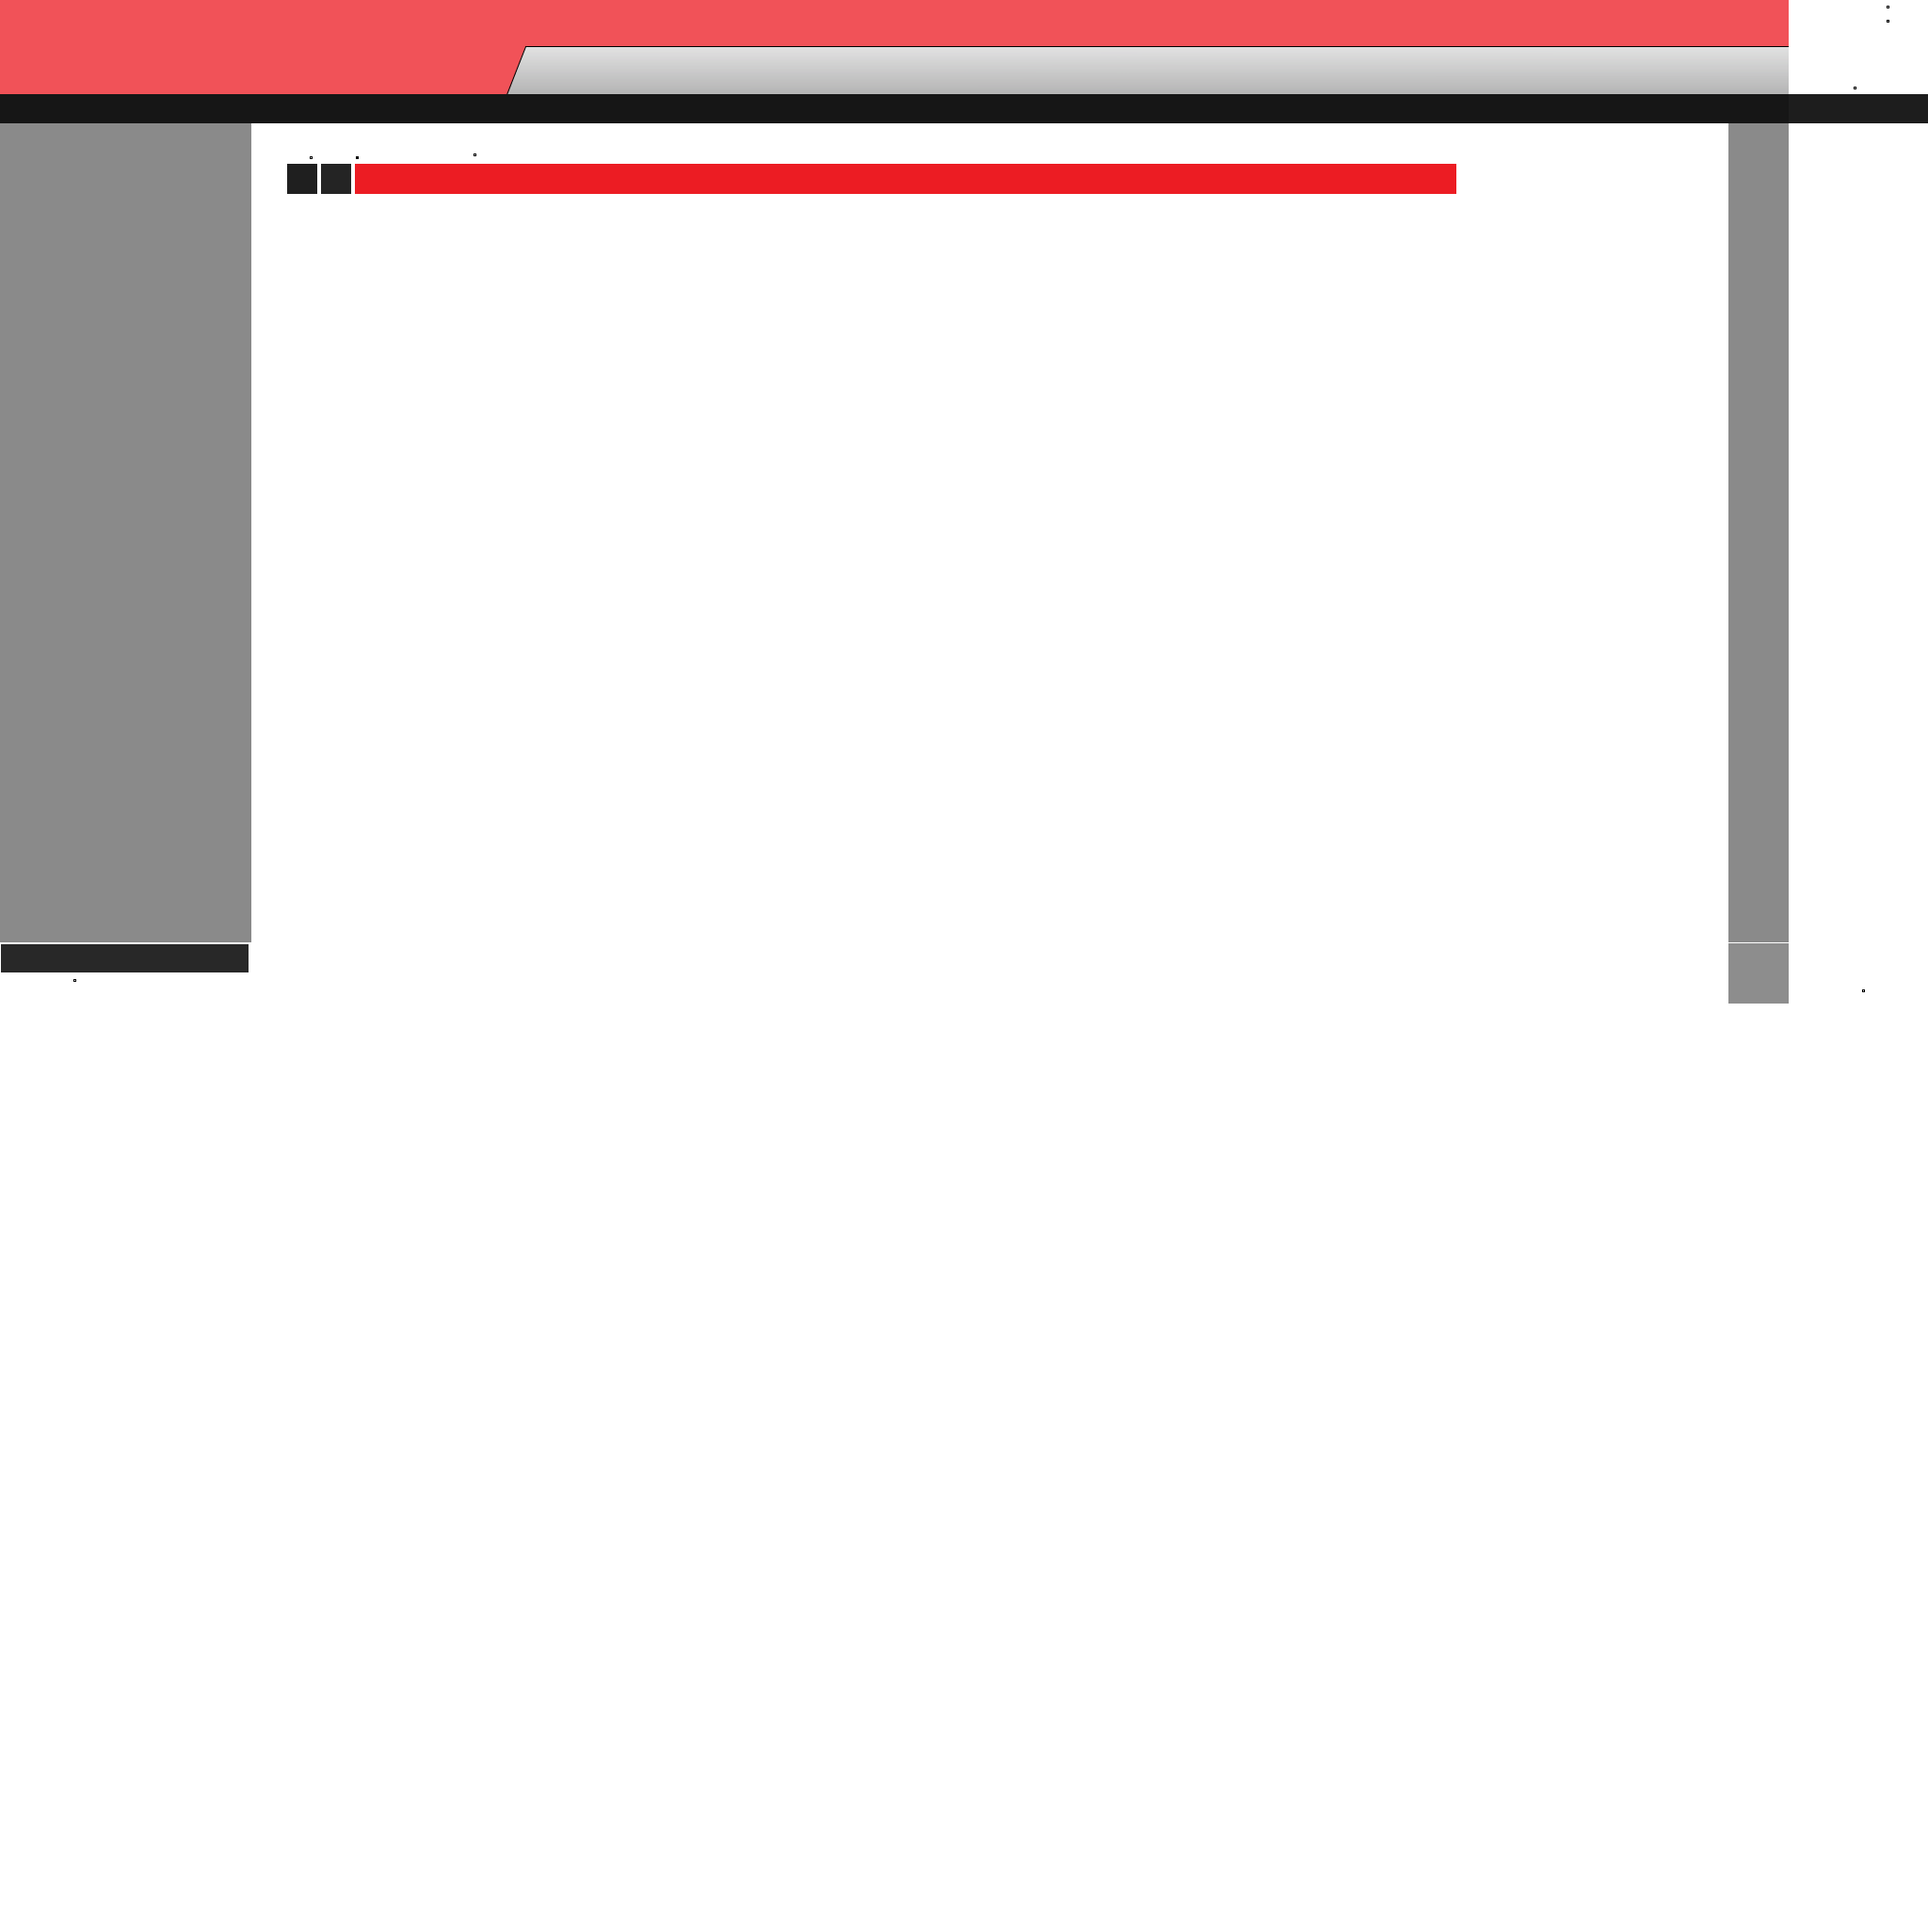
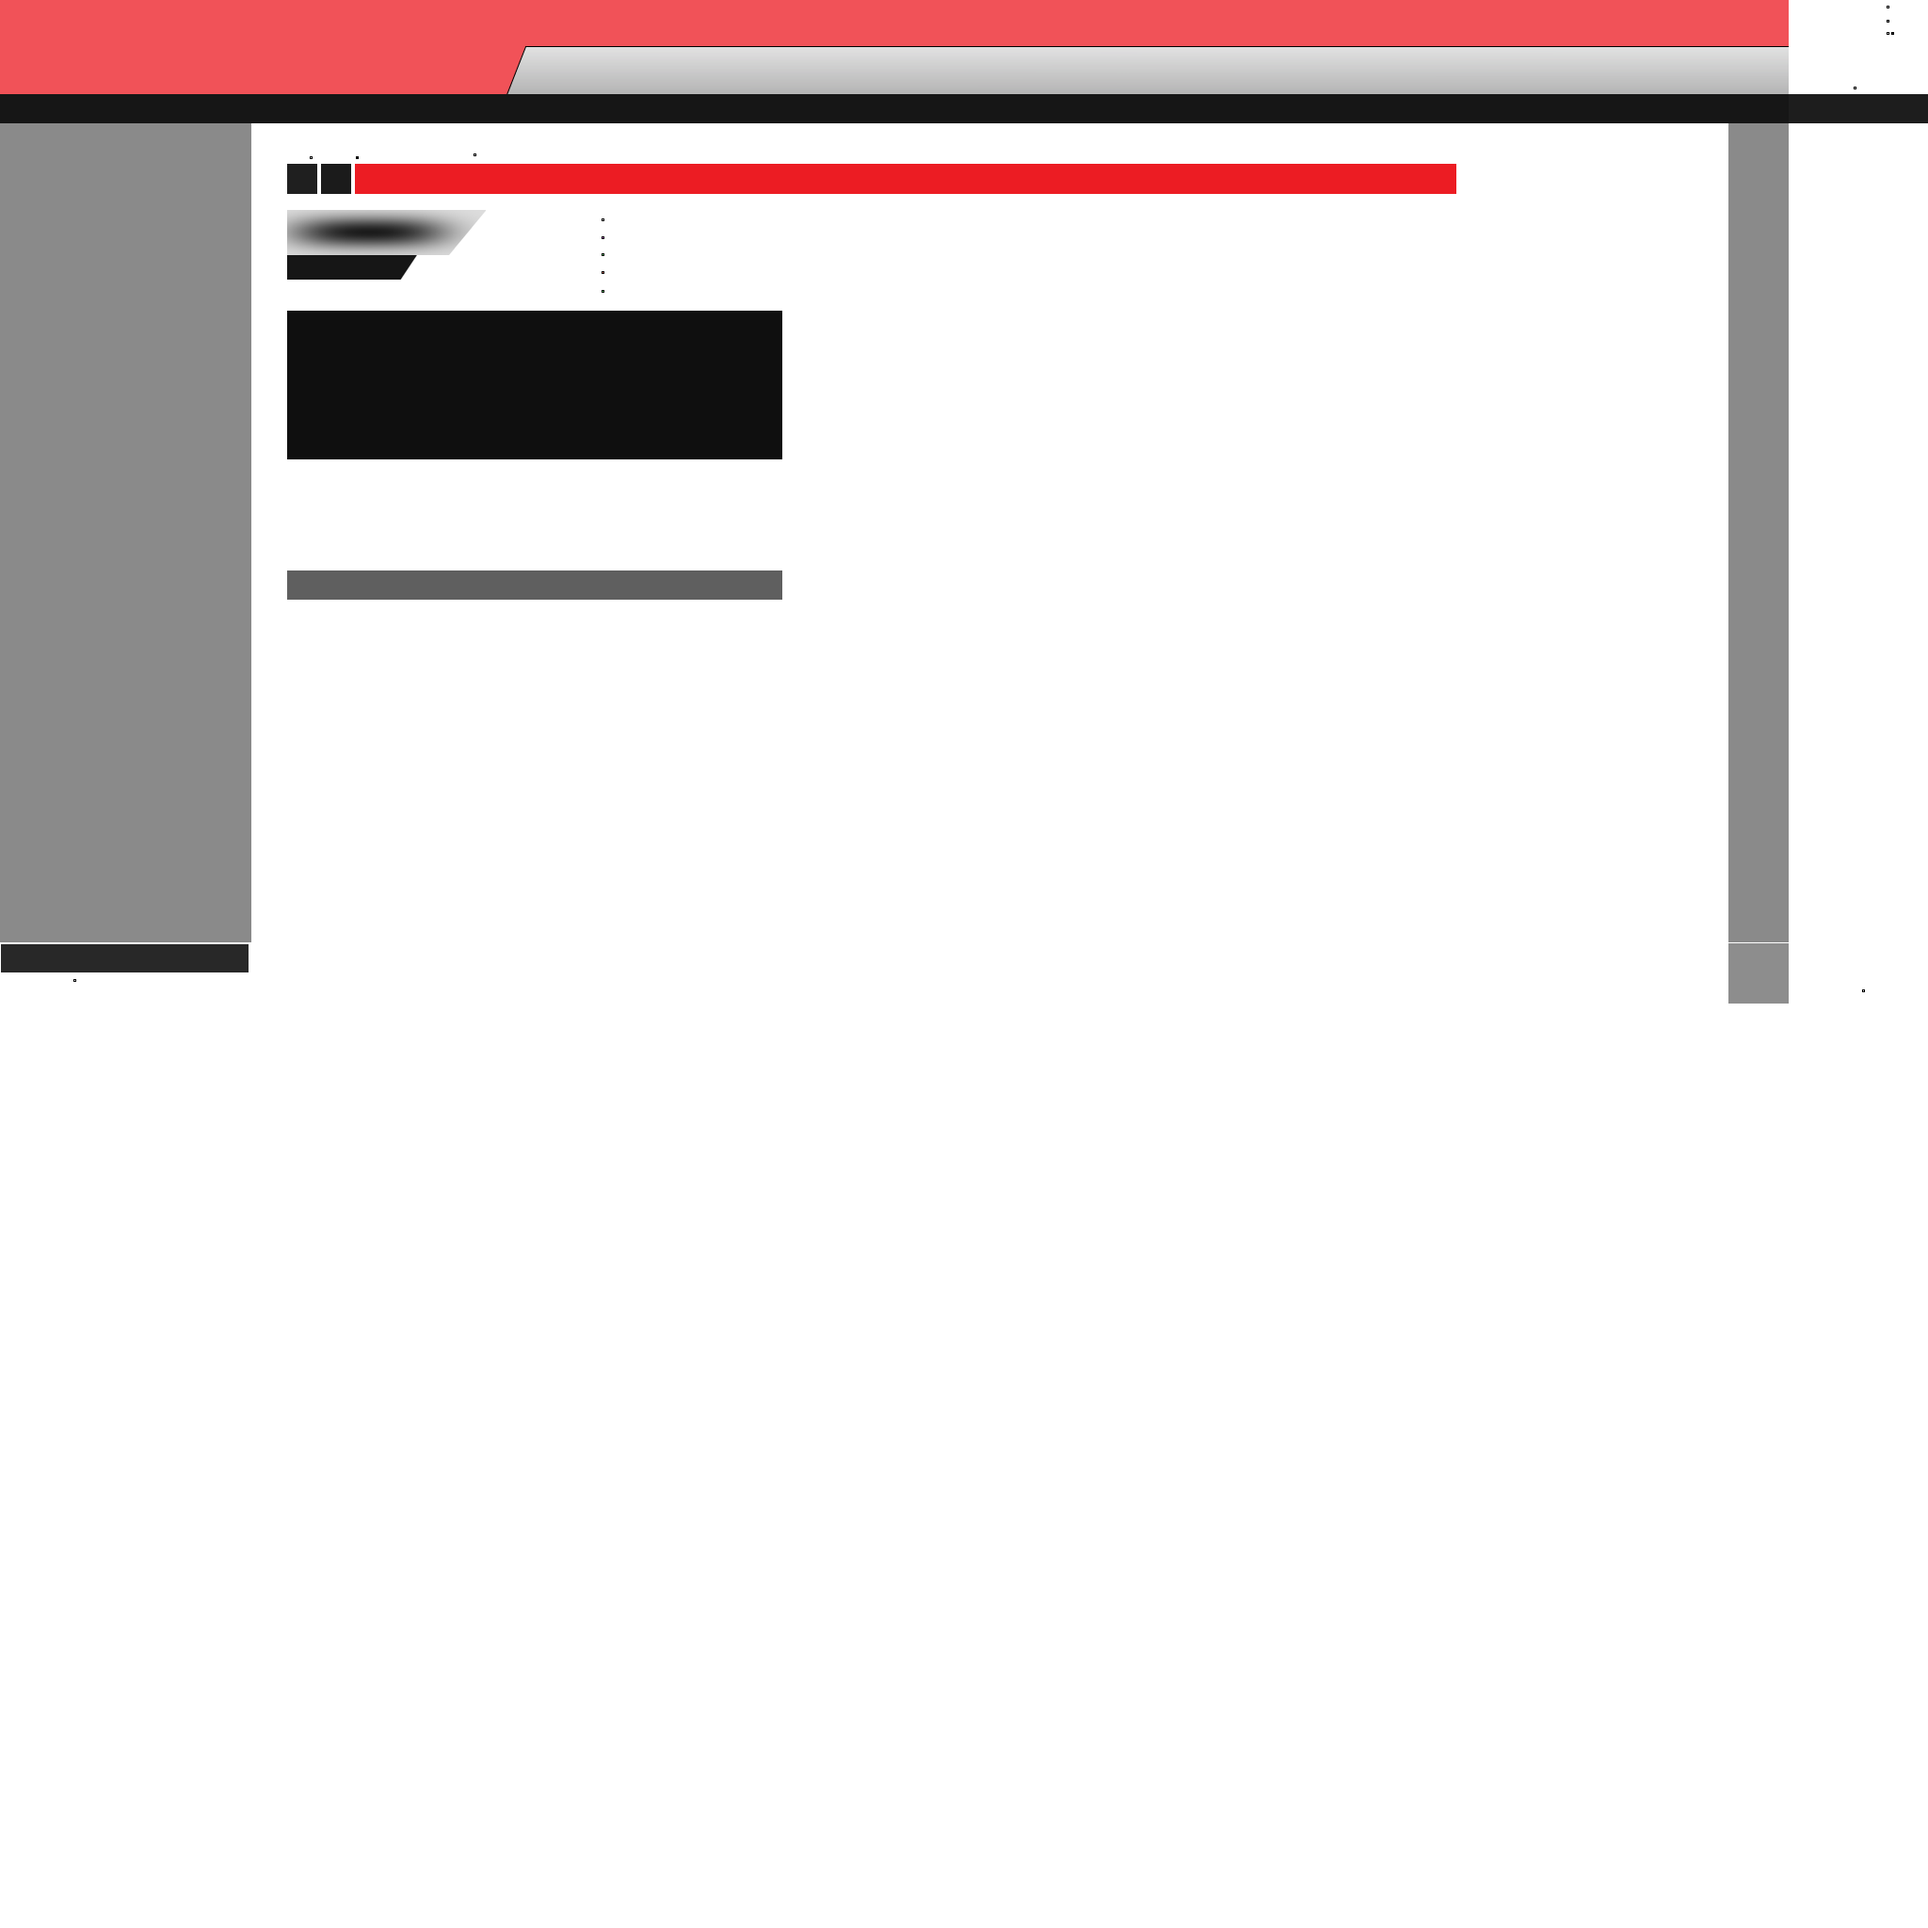
theming

Changed region(s): [[0.125, 0.0938, 0.4062, 0.25], [0.125, 0.2812, 0.4062, 0.3125]]

diff --git a/UI/Theme2.cs b/UI/Theme2.cs
@@ -31,6 +31,10 @@ namespace UI
 
         public string FontFamily { get; set; }
 
+
+        public TextureColor TextMain { get; set; }
+        public TextureColor TextAlt { get; set; }
+
         public TextureRegion TopPanel { get; set; }
         public TextureColor TopPanelText { get; set; }
 
@@ -60,11 +64,26 @@ namespace UI
         public TextureRegion RightButtonBackground { get; set; }
         public TextureColor RightText { get; set; }
 
+
+        public TextureColor OverallBestTime { get; set; }
+        public TextureColor NewPersonalBest { get; set; }
+        public TextureColor BehindTime { get; set; }
+        public TextureColor AheadTime { get; set; }
+
+        public TextureRegion ChannelLapBackground { get; set; }
+        public TextureColor ChannelText { get; set; }
+        public TextureRegion ChannelOverlayPanel { get; set; }
+        public TextureRegion ChannelPilotNameBackground { get; set; }
+        public TextureRegion ChannelPBBackground { get; set; }
+
+
         public Theme2()
         {
             FontFamily = "Roboto";
 
             ScrollBar = new TextureColor() { Filename = "theme.png", X = 2005, Y = 22 };
+            TextMain = new TextureColor() { Filename = "theme.png", X = 2005, Y = 35 };
+            TextAlt = new TextureColor() { Filename = "theme.png", X = 2010, Y = 35 };
 
             TopPanel = new TextureRegion() { Filename = "theme.png", X = 0, Y = 0, W = 1900, H = 100};
             Background = new TextureRegion() { Filename = "background.png" };
@@ -91,6 +110,12 @@ namespace UI
             RightText = new TextureColor() { Filename = "theme.png", X = 1979, Y = 1052 };
 
             EventSelectorTop = new TextureRegion() { Filename = "theme.png", X = 377, Y = 174, W = 1170, H = 32 };
+
+            ChannelPilotNameBackground = new TextureRegion() { Filename = "theme.png", X = 305, Y = 223, W = 211, H = 48 };
+            ChannelPBBackground = new TextureRegion() { Filename = "theme.png", X = 305, Y = 271, W = 138, H = 26 };
+            ChannelLapBackground = new TextureRegion() { Filename = "theme.png", X = 305, Y = 606, W = 526, H = 31 };
+            ChannelOverlayPanel = new TextureRegion() { Filename = "theme.png", X = 305, Y = 330, W = 526, H = 158 };
+            ChannelText = new TextureColor() { Filename = "theme.png", X = 640, Y = 233 };
         }
 
         public Theme ToTheme(GraphicsDevice graphicsDevice, Theme baseTheme)
@@ -101,41 +126,51 @@ namespace UI
             using (RawTextureCache rawTextureCache = new RawTextureCache(graphicsDevice, Directory))
             {
                 theme.Directory = Directory;
+                theme.TextMain = TextMain.ToToolColor(rawTextureCache);
+                theme.Background = Background.ToToolTexture(rawTextureCache);
 
-                theme.Background = Background.ToToolTexture();
-
-                theme.TopPanel = TopPanel.ToToolTexture();
+                theme.TopPanel = TopPanel.ToToolTexture(rawTextureCache);
                 theme.TopPanelText = TopPanelText.ToToolColor(rawTextureCache);
-                theme.EventSelectorTop = EventSelectorTop.ToToolTexture();
+                theme.EventSelectorTop = EventSelectorTop.ToToolTexture(rawTextureCache);
 
-                theme.Tabs.Background = TabsBackground.ToToolTexture();
-                theme.Tabs.Foreground = TabForeground.ToToolTexture();
+                theme.Tabs.Background = TabsBackground.ToToolTexture(rawTextureCache);
+                theme.Tabs.Foreground = TabForeground.ToToolTexture(rawTextureCache);
                 theme.Tabs.Text = TabText.ToToolColor(rawTextureCache);
 
-                theme.Panel = PanelBackground.ToToolTexture();
-                theme.PanelAlt = PanelForeground.ToToolTexture();
-                theme.TextAlt = PanelText.ToToolColor(rawTextureCache);
+                theme.Panel = PanelBackground.ToToolTexture(rawTextureCache);
+                theme.PanelAlt = PanelForeground.ToToolTexture(rawTextureCache);
 
-                theme.Editor.Background = PanelBackground.ToToolTexture();
-                theme.Editor.Foreground = PanelForeground.ToToolTexture();
+                theme.Editor.Background = PanelBackground.ToToolTexture(rawTextureCache);
+                theme.Editor.Foreground = PanelForeground.ToToolTexture(rawTextureCache);
                 theme.Editor.Text = PanelText.ToToolColor(rawTextureCache);
                 theme.Editor.Border = PanelBorder.ToToolColor(rawTextureCache);
 
-                theme.InfoPanel.Background = PanelBackground.ToToolTexture();
-                theme.InfoPanel.Foreground = PanelForeground.ToToolTexture();
+                theme.InfoPanel.Background = PanelBackground.ToToolTexture(rawTextureCache);
+                theme.InfoPanel.Foreground = PanelForeground.ToToolTexture(rawTextureCache);
                 theme.InfoPanel.Text = PanelText.ToToolColor(rawTextureCache);
                 theme.InfoPanel.Border = PanelBorder.ToToolColor(rawTextureCache);
                 theme.InfoPanel.HeadingText = HeadingText.ToToolColor(rawTextureCache);
-                theme.InfoPanel.Heading = Heading.ToToolTexture();
+                theme.InfoPanel.Heading = Heading.ToToolTexture(rawTextureCache);
 
-                theme.LeftPilotList.Background = LeftBackground.ToToolTexture();
-                theme.LeftPilotList.Foreground = LeftPilotBackground.ToToolTexture();
+                theme.LeftPilotList.Background = LeftBackground.ToToolTexture(rawTextureCache);
+                theme.LeftPilotList.Foreground = LeftPilotBackground.ToToolTexture(rawTextureCache);
                 theme.LeftPilotList.Text = LeftPilotText.ToToolColor(rawTextureCache);
 
-                theme.RightControls.Background = RightBackground.ToToolTexture();
-                theme.RightControls.Foreground = RightButtonBackground.ToToolTexture();
+                theme.RightControls.Background = RightBackground.ToToolTexture(rawTextureCache);
+                theme.RightControls.Foreground = RightButtonBackground.ToToolTexture(rawTextureCache);
                 theme.RightControls.Text = RightText.ToToolColor(rawTextureCache);
 
+                theme.Rounds.Background = PanelBackground.ToToolTexture(rawTextureCache);
+                theme.Rounds.Foreground = PanelForeground.ToToolTexture(rawTextureCache);
+                theme.Rounds.Text = PanelText.ToToolColor(rawTextureCache);
+                theme.Rounds.Border = PanelBorder.ToToolColor(rawTextureCache);
+                theme.Rounds.RaceTitle = PanelForeground.ToToolTexture(rawTextureCache);
+                theme.Rounds.Heading = Heading.ToToolTexture(rawTextureCache);
+
+                theme.PilotViewTheme.PBBackground = ChannelPBBackground.ToToolTexture(rawTextureCache);
+                theme.PilotViewTheme.PilotNameBackground = ChannelPilotNameBackground.ToToolTexture(rawTextureCache);
+                theme.PilotViewTheme.LapBackground = ChannelLapBackground.ToToolTexture(rawTextureCache);
+                theme.PilotViewTheme.PilotOverlayPanel = ChannelOverlayPanel.ToToolTexture(rawTextureCache);
             }
 
             return theme;
@@ -171,20 +206,17 @@ namespace UI
         public int W { get; set; }
         public int H { get; set; }
 
-
-        public byte R { get; set; }
-        public byte G { get; set; }
-        public byte B { get; set; }
-        public byte A { get; set; }
-
         public TextureRegion()
         {
-            A = 255;
         }
 
-        public ToolTexture ToToolTexture()
+        public ToolTexture ToToolTexture(RawTextureCache textureCache)
         {
-            return new ToolTexture(Filename, R, G, B, A, new Rectangle(X, Y, W, H));
+            Rectangle r = new Rectangle(X, Y, W, H);
+
+            Color c = textureCache.GetColor(Filename, r.Center.X, r.Center.Y);
+
+            return new ToolTexture(Filename, c.R, c.G, c.B, c.A, r);
         }
     }
 

diff --git a/UI/Theme.cs b/UI/Theme.cs
@@ -196,12 +196,12 @@ namespace UI
                 return;
             }
 
-            //Theme2 theme2 = new Theme2();
-            //theme2.Directory = new DirectoryInfo(Path.Combine(workingDirectory.FullName, "themes/New"));
+            Theme2 theme2 = new Theme2();
+            theme2.Directory = new DirectoryInfo(Path.Combine(workingDirectory.FullName, "themes/New"));
 
-            //Theme converted = theme2.ToTheme(gd, Current);
-            //themes.Add(converted);
-            //Current = converted;
+            Theme converted = theme2.ToTheme(gd, Current);
+            themes.Add(converted);
+            Current = converted;
 
             LocaliseFilenames(Current.Directory, Current);
             Composition.Text.Style.DefaultFont = Current.FontFamily;
@@ -210,10 +210,11 @@ namespace UI
         private void Upgrade()
         {
             if (Tabs == null)
-            {
                 Tabs = new PanelTheme() { Background = new ToolTexture(Panel), Foreground = new ToolTexture(PanelAlt), Text = TextMain };
+
+            if (EventSelectorTop == null)
                 EventSelectorTop = new ToolTexture(TopPanel.R, TopPanel.G, TopPanel.B, TopPanel.A);
-            }
+
         }
 
 
